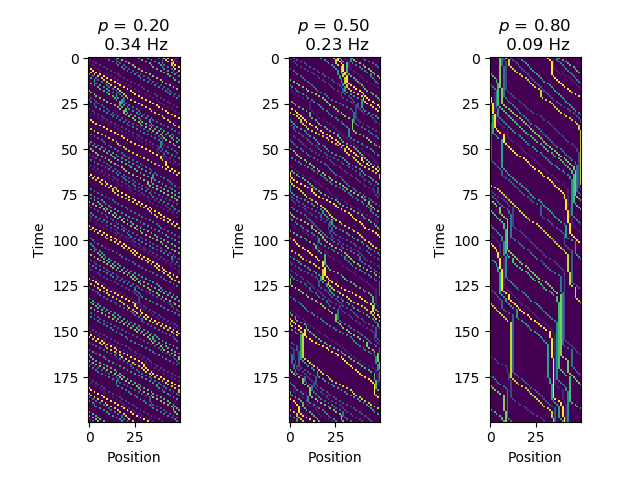
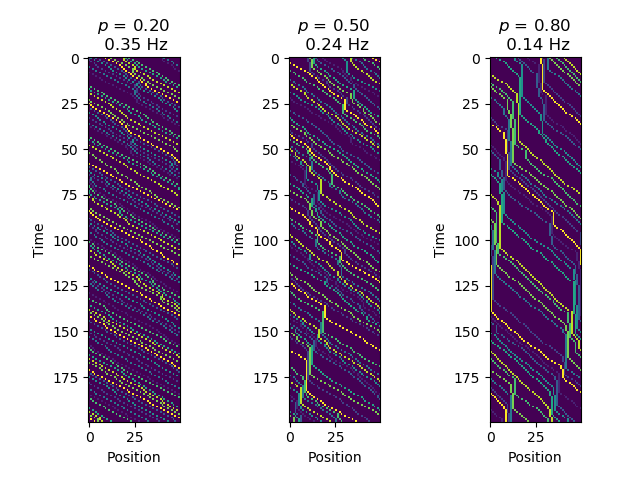
4_5

Changed region(s): [[0.125, 0.0625, 0.2812, 0.875], [0.4375, 0.0625, 0.5938, 0.875], [0.75, 0.0625, 0.9062, 0.875]]

diff --git a/tasks/task4/4_5.py b/tasks/task4/4_5.py
@@ -1,0 +1,123 @@
+import numpy as np
+import random as rnd
+import matplotlib.pyplot as plt
+import scipy.optimize as opt
+
+import sys
+
+sys.setrecursionlimit(15000)
+
+gridSize = 40
+grid = np.zeros((gridSize, gridSize))
+nextGrid = np.zeros_like(grid)
+
+EMPTY = 0
+TREE = 1
+FIRE = 2
+
+growthProbability = 0.1
+lightningStrikeProbability = 0.1
+
+
+spreadDirections = [[1, 0], [0, 1], [-1, 0], [0, -1]]
+
+
+def spread(x, y, onType, toType):
+    for direction in spreadDirections:
+        nextX = (x + direction[0] + gridSize) % gridSize
+        nextY = (y + direction[1] + gridSize) % gridSize
+
+        if nextGrid[nextX, nextY] == onType:
+            nextGrid[nextX, nextY] = toType
+            spread(nextX, nextY, onType, toType)
+
+
+def uniqueConnected(x, y, visited, ofType):
+    if visited[x, y] == 1:
+        return 0
+
+    visited[x, y] = 1
+
+    if not (grid[x, y] == ofType):
+        return 0
+
+    count = 1
+    for direction in spreadDirections:
+        nextX = (x + direction[0] + gridSize) % gridSize
+        nextY = (y + direction[1] + gridSize) % gridSize
+        count += uniqueConnected(nextX, nextY, visited, ofType)
+    return count
+
+
+fireCatched = []
+
+
+def iterate():
+    nextGrid[:, :] = grid[:, :]
+    for x in range(gridSize):
+        for y in range(gridSize):
+
+            if grid[x, y] == EMPTY and rnd.random() < growthProbability:
+                nextGrid[x, y] = TREE
+
+            if grid[x, y] == TREE and rnd.random() < lightningStrikeProbability:
+                nextGrid[x, y] = FIRE
+
+            if grid[x, y] == FIRE:
+                nextGrid[x, y] = EMPTY
+
+    for x in range(gridSize):
+        for y in range(gridSize):
+            if nextGrid[x, y] == FIRE:
+                spread(x, y, TREE, FIRE)
+
+    grid[:, :] = nextGrid[:, :]
+
+    visited = np.zeros_like(grid)
+    for x in range(gridSize):
+        for y in range(gridSize):
+            uniqueGroup = uniqueConnected(x, y, visited, FIRE)
+            if uniqueGroup > 0:
+                fireCatched.append(uniqueGroup)
+
+
+N = 3
+plt.figure()
+for i in range(N):
+    for j in range(N):
+        for n in range(10):
+            iterate()
+        plt.subplot(N, N, i*N + j + 1)
+        plt.imshow(grid)
+        plt.clim(EMPTY, FIRE)
+
+plt.tight_layout()
+plt.savefig("./plots/4_5/sample.png")
+
+for i in range(100):
+    iterate()
+
+
+plt.figure()
+n, bins, patches = plt.hist(fireCatched, 20)
+
+
+def func(x, a):
+    return n[0] * x**a
+
+
+optimizeX = bins[1:]
+optimizeY = n
+optimizedParameters, pcov = opt.curve_fit(func, optimizeX, optimizeY)
+
+plotx = np.linspace(np.amin(bins), np.amax(bins), 100)
+#plt.plot(bins[:-1], n)
+plt.plot(plotx, func(plotx, *optimizedParameters))
+
+plt.xlabel("s")
+plt.ylabel("N(s)")
+plt.title("g = {1:.2f}, f = {2:.2f}, $\\alpha \\approx {0:.2f}$".format(
+    optimizedParameters[0], growthProbability, lightningStrikeProbability), loc="left")
+plt.figlegend(('$N s^{-\\alpha}$', 'Simulation histogram'))
+
+plt.savefig("./plots/4_5/histogram.png")
